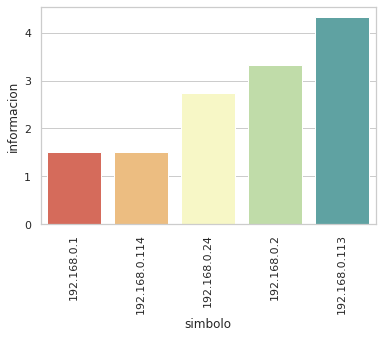
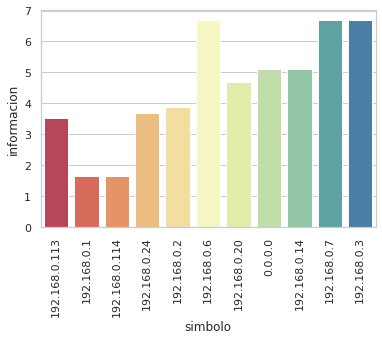
Defino a la fuente como src y dst en vez de solo src

diff --git a/generarCapturasARPs.py b/generarCapturasARPs.py
@@ -35,7 +35,7 @@ def callback(pkt):
         arp = pkt[scapy.ARP]
         cantMuestras = cantMuestras + 1 
         print(cantMuestras)
-        s_i =  "src: " + arp.psrc + " dst: " + " ("+str(arp.pdst)+")"
+        s_i = arp.psrc + " ("+str(arp.pdst)+")"
     
         if s_i not in S1:
             S1[s_i] = 0.0
@@ -44,7 +44,7 @@ def callback(pkt):
         S2 = S1.copy()
         data[datetime.now()] = S2.values()
 
-while cantMuestras < 1000:
+while cantMuestras < 100:
     
     sniff(prn=callback, count=100)
 
